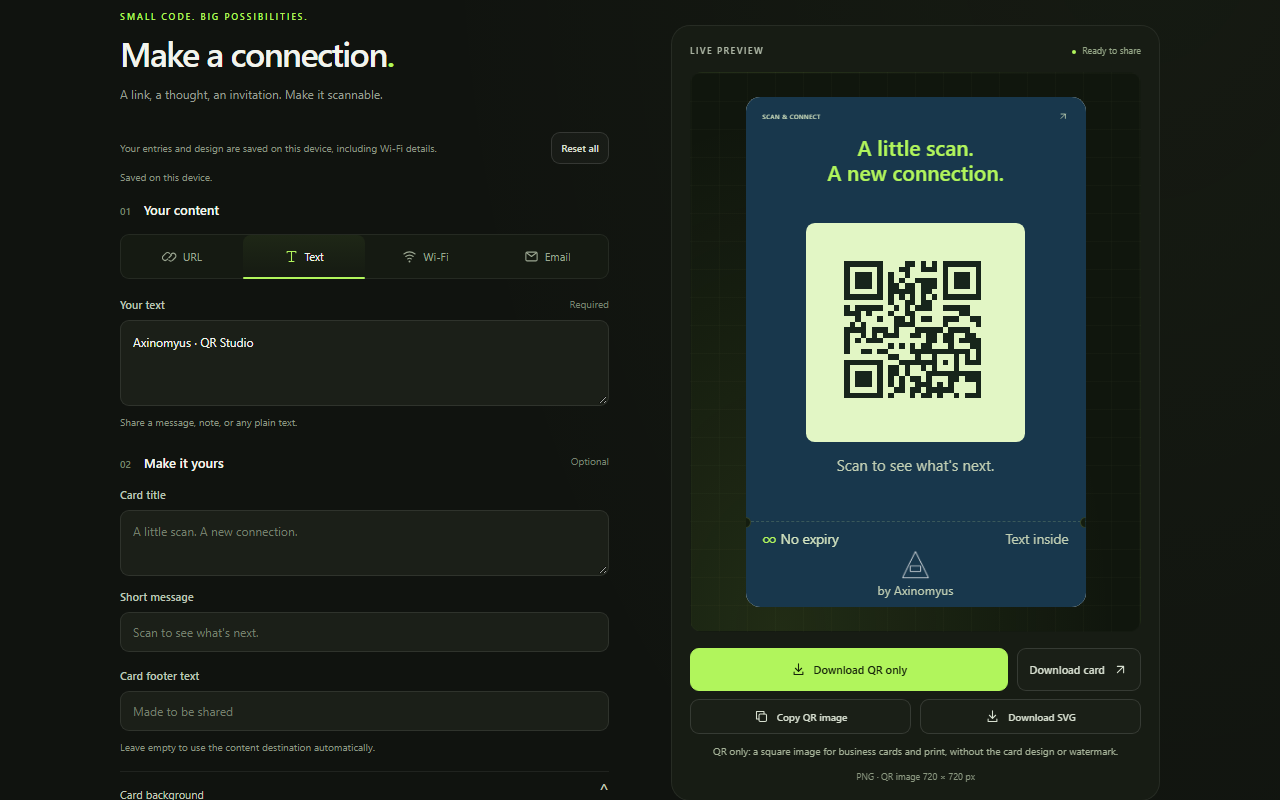
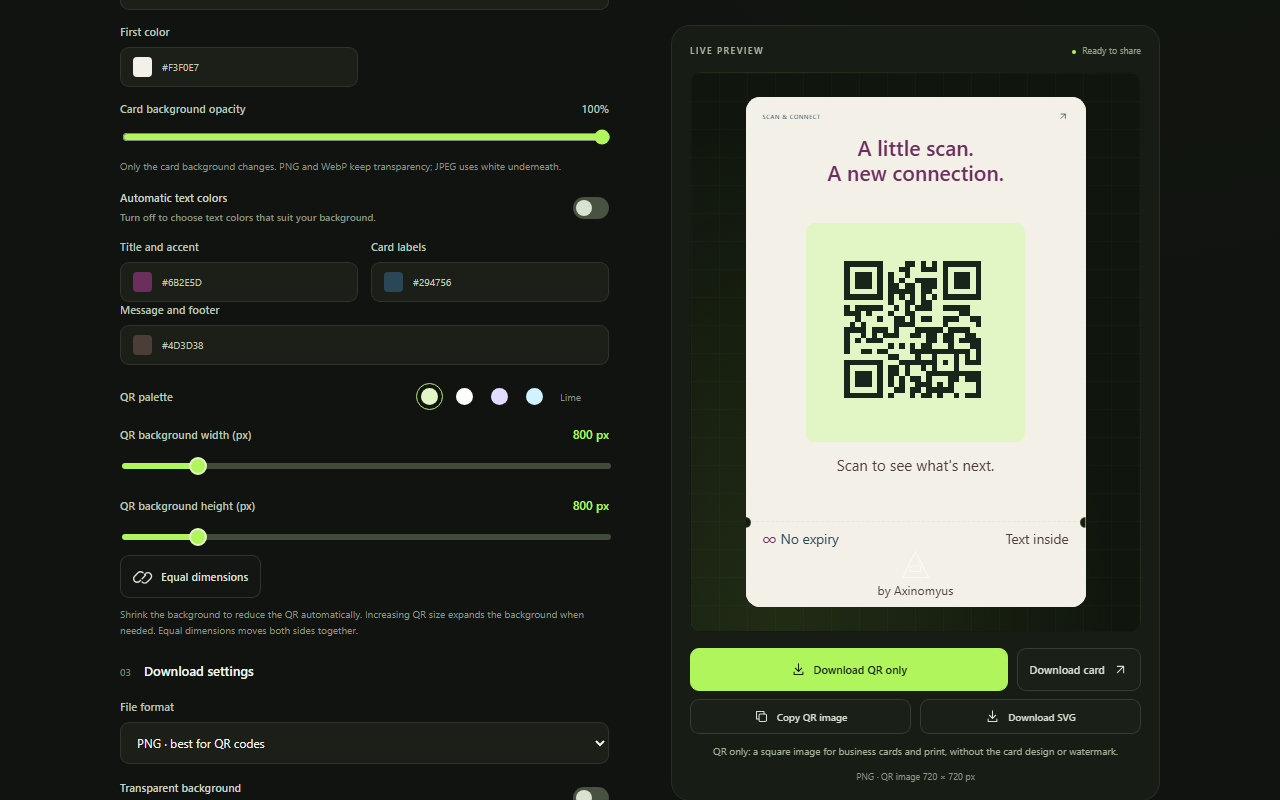
V 1.4.0

diff --git a/localization.js b/localization.js
@@ -4,6 +4,11 @@
 
     const translations = {
         en: {
+            cardTextAuto: "Automatic text colors",
+            cardTextAutoHint: "Turn off to choose text colors that suit your background.",
+            cardTitleColor: "Title and accent",
+            cardTextColor: "Card labels",
+            cardMutedColor: "Message and footer",
             qrSurfaceWidth: 'QR background width (px)', qrSurfaceHeight: 'QR background height (px)',
             qrSurfaceLinked: 'Equal dimensions',
             footerText: 'Card footer text', footerTextHint: 'Leave empty to use the content destination automatically.',
@@ -84,6 +89,11 @@
             downloadReady: 'Your {format} is ready. Check your browser downloads.', exportError: 'The image could not be created. Try a smaller size or choose PNG.'
         },
         tr: {
+            cardTextAuto: "Otomatik yazı renkleri",
+            cardTextAutoHint: "Arka planına uygun yazı renkleri seçmek için kapat.",
+            cardTitleColor: "Başlık ve vurgu",
+            cardTextColor: "Kart etiketleri",
+            cardMutedColor: "Mesaj ve alt yazı",
             qrSurfaceWidth: 'QR zemini genişliği (px)', qrSurfaceHeight: 'QR zemini yüksekliği (px)',
             qrSurfaceLinked: 'Eşit boyutlar',
             footerText: 'Kart alt yazısı', footerTextHint: 'Boş bırakırsan içerik hedefi otomatik gösterilir.',
@@ -164,6 +174,11 @@
             downloadReady: '{format} hazır. Tarayıcının indirilenler bölümünü kontrol et.', exportError: 'Görsel oluşturulamadı. Daha küçük bir boyut veya PNG seç.'
         },
         ru: {
+            cardTextAuto: "Автоматические цвета текста",
+            cardTextAutoHint: "Отключите, чтобы выбрать цвета текста для своего фона.",
+            cardTitleColor: "Заголовок и акцент",
+            cardTextColor: "Надписи карточки",
+            cardMutedColor: "Сообщение и нижний текст",
             qrSurfaceWidth: 'Ширина фона QR (px)', qrSurfaceHeight: 'Высота фона QR (px)',
             qrSurfaceLinked: 'Равные размеры',
             footerText: 'Текст внизу карточки', footerTextHint: 'Оставь пустым, чтобы автоматически показывать назначение содержимого.',
@@ -244,6 +259,11 @@
             downloadReady: '{format} готов. Проверь загрузки браузера.', exportError: 'Не удалось создать изображение. Уменьши размер или выбери PNG.'
         },
         uk: {
+            cardTextAuto: "Автоматичні кольори тексту",
+            cardTextAutoHint: "Вимкніть, щоб вибрати кольори тексту для свого тла.",
+            cardTitleColor: "Заголовок і акцент",
+            cardTextColor: "Написи картки",
+            cardMutedColor: "Повідомлення і нижній текст",
             qrSurfaceWidth: 'Ширина тла QR (px)', qrSurfaceHeight: 'Висота тла QR (px)',
             qrSurfaceLinked: 'Однакові розміри',
             footerText: 'Текст унизу картки', footerTextHint: 'Залиш порожнім, щоб автоматично показувати призначення вмісту.',
@@ -324,6 +344,11 @@
             downloadReady: '{format} готовий. Перевір завантаження браузера.', exportError: 'Не вдалося створити зображення. Зменш розмір або вибери PNG.'
         },
         de: {
+            cardTextAuto: "Automatische Textfarben",
+            cardTextAutoHint: "Ausschalten, um passende Textfarben für den Hintergrund zu wählen.",
+            cardTitleColor: "Titel und Akzent",
+            cardTextColor: "Kartenbeschriftung",
+            cardMutedColor: "Nachricht und Fußtext",
             qrSurfaceWidth: 'QR-Hintergrundbreite (px)', qrSurfaceHeight: 'QR-Hintergrundhöhe (px)',
             qrSurfaceLinked: 'Gleiche Abmessungen',
             footerText: 'Text im Kartenfuß', footerTextHint: 'Leer lassen, um das Inhaltsziel automatisch anzuzeigen.',

diff --git a/index.html b/index.html
@@ -112,6 +112,12 @@
                                 <button type="button" class="secondary-button" id="remove-card-image" data-i18n="removeImage" hidden>Remove image</button>
                             </div>
                             <div id="card-opacity-settings" hidden><label for="card-opacity"><span data-i18n="cardOpacity">Card background opacity</span> <output id="card-opacity-value" for="card-opacity">100%</output></label><input id="card-opacity" type="range" min="0" max="100" step="1" value="100" aria-describedby="card-opacity-hint"><p class="field-hint" id="card-opacity-hint" data-i18n="cardOpacityHint">Only the card background changes. PNG and WebP keep transparency; JPEG uses white underneath.</p></div>
+                            <label class="switch-row" for="card-text-auto"><span><strong data-i18n="cardTextAuto">Automatic text colors</strong><small data-i18n="cardTextAutoHint">Turn off to choose text colors that suit your background.</small></span><input id="card-text-auto" name="cardTextAuto" type="checkbox" role="switch" checked><span class="switch-track" aria-hidden="true"></span></label>
+                            <div class="field-row">
+                                <div><label for="card-title-color" data-i18n="cardTitleColor">Title and accent</label><div class="color-field"><input id="card-title-color" name="cardTitleColor" type="color" value="#b1f55c" disabled><output for="card-title-color" id="card-title-color-value">#B1F55C</output></div></div>
+                                <div><label for="card-text-color" data-i18n="cardTextColor">Card labels</label><div class="color-field"><input id="card-text-color" name="cardTextColor" type="color" value="#d4e4c0" disabled><output for="card-text-color" id="card-text-color-value">#D4E4C0</output></div></div>
+                            </div>
+                            <label for="card-muted-color" data-i18n="cardMutedColor">Message and footer</label><div class="color-field"><input id="card-muted-color" name="cardMutedColor" type="color" value="#c1cfb3" disabled><output for="card-muted-color" id="card-muted-color-value">#C1CFB3</output></div>
                             <p class="field-hint" id="card-image-status" role="status" aria-live="polite" hidden></p>
                             <p class="field-error" id="card-background-error" role="alert" hidden></p>
                         </details>

diff --git a/card-background.js b/card-background.js
@@ -7,6 +7,10 @@
     const color         = document.getElementById('card-color');
     const colorEnd      = document.getElementById('card-color-end');
     const opacity       = document.getElementById('card-opacity');
+    const autoTextColor = document.getElementById('card-text-auto');
+    const titleColor    = document.getElementById('card-title-color');
+    const textColor     = document.getElementById('card-text-color');
+    const mutedColor    = document.getElementById('card-muted-color');
     const fileInput     = document.getElementById('card-image');
     const removeButton  = document.getElementById('remove-card-image');
     const preview       = document.getElementById('card-background-preview');
@@ -75,7 +79,7 @@
         context.restore();
     }
 
-    function getTextColors()
+    function getAutomaticTextColors()
     {
         const sample  = document.createElement('canvas');
         const context = sample.getContext('2d', { willReadFrequently: true });
@@ -102,6 +106,20 @@
         return { title: '#b1f55c', text: '#d4e4c0', muted: '#c1cfb3', border: '#79964f' };
     }
 
+    function getTextColors()
+    {
+        const colors = getAutomaticTextColors();
+
+        if (!autoTextColor.checked)
+        {
+            colors.title = titleColor.value;
+            colors.text  = textColor.value;
+            colors.muted = mutedColor.value;
+        }
+
+        return colors;
+    }
+
     function renderPreview()
     {
         const bounds = card.getBoundingClientRect();
@@ -121,6 +139,18 @@
         draw(context, preview.width, preview.height);
 
         const colors = getTextColors();
+
+        for (const [name, input] of [['title', titleColor], ['text', textColor], ['muted', mutedColor]])
+        {
+            input.disabled = autoTextColor.checked;
+
+            if (autoTextColor.checked)
+            {
+                input.value = colors[name];
+            }
+
+            document.getElementById(input.id + '-value').textContent = input.value.toUpperCase();
+        }
 
         for (const [name, value] of Object.entries(colors))
         {

diff --git a/README.md b/README.md
@@ -2,7 +2,7 @@
 
 Create QR codes for websites, text, Wi-Fi networks, and email drafts. Customize the colors, then download a clean QR image for your own design or a ready-to-share card.
 
-**Version 1.3.0** adds linked size sliders, multiline titles, an editable card footer, current-tab autofill, clipboard copying, SVG downloads and a saved workspace with **Reset all**. QR size now follows the full slider range without the former card-width limit.
+**Version 1.4.0** adds customizable card text colors with automatic color selection, saved preferences and matching previews/downloads. It retains linked size sliders, multiline titles, an editable card footer, current-tab autofill, clipboard copying, SVG downloads and a saved workspace with **Reset all**. QR size now follows the full slider range without the former card-width limit.
 
 [Chrome Web Store](https://chromewebstore.google.com/detail/idmopdehblodmajcpfopappenmddidoa) · [Product page](https://www.axinomyus.com/products/qr-code-generator-extension) · [Axinomyus](https://www.axinomyus.com/)
 
